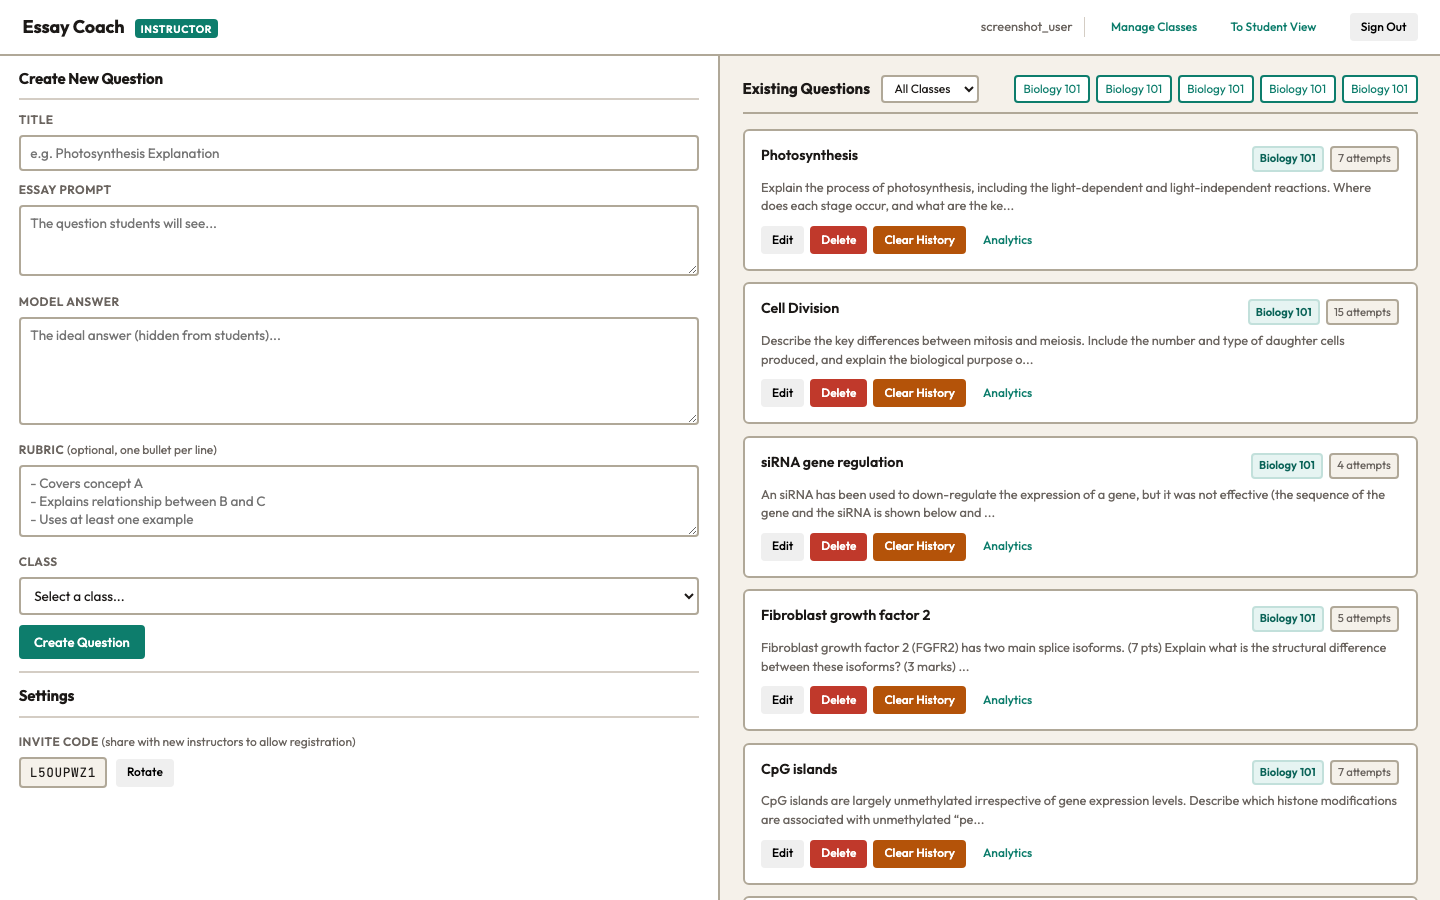
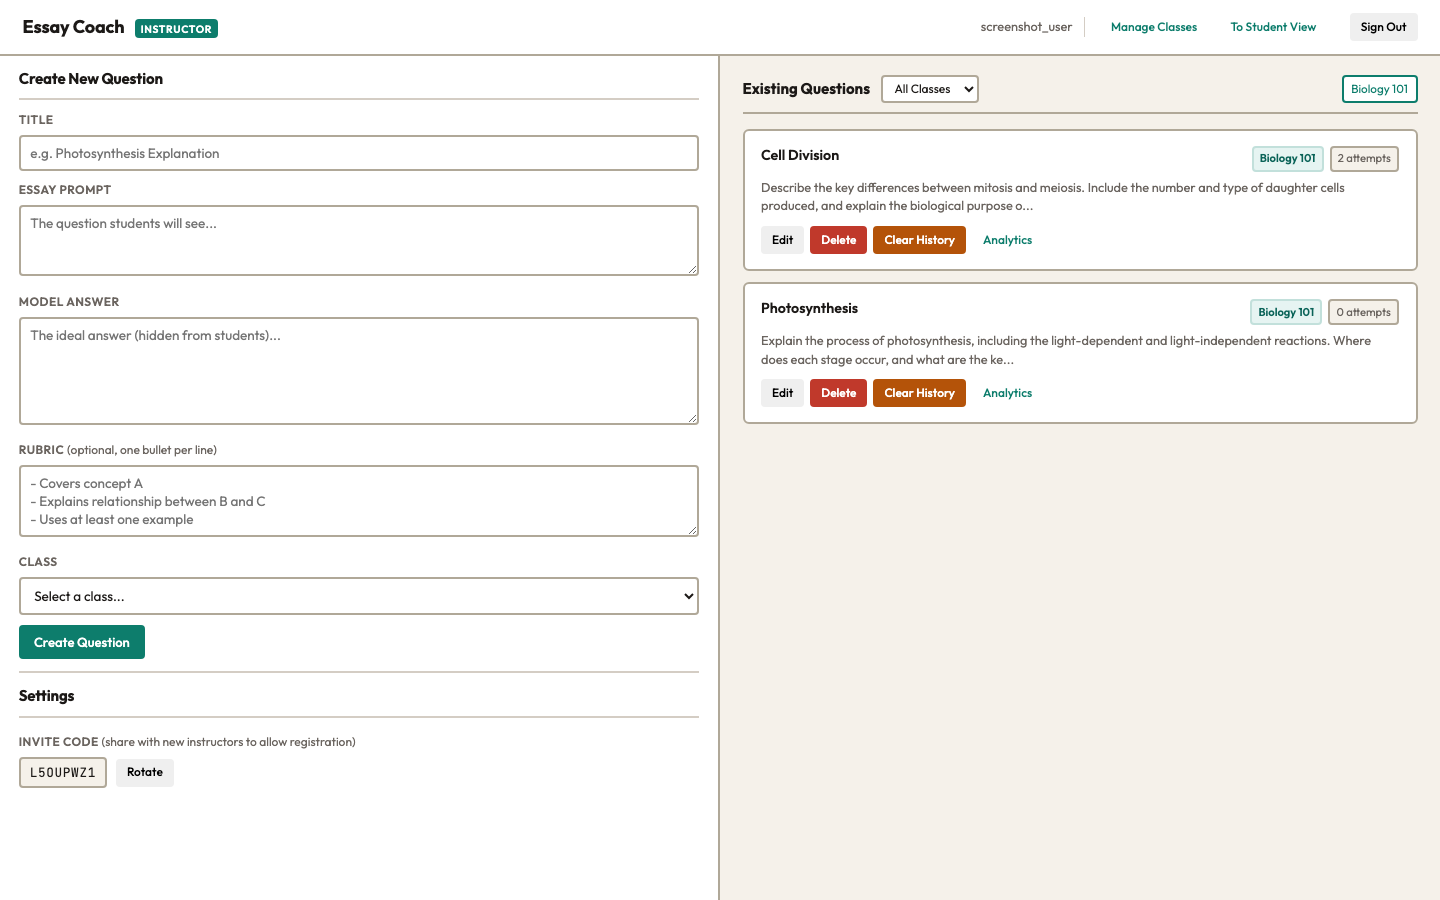
Fix duplicate classes in instructor-classes screenshot
Clean up all screenshot_user class memberships (not just created classes)
before each run, removing stale joined-class memberships from the old
hardcoded script. Also regenerate screenshots.

diff --git a/docs/capture_screenshots.py b/docs/capture_screenshots.py
@@ -101,6 +101,22 @@ def get_invite_code() -> str:
     return row[0]
 
 
+def cleanup_screenshot_classes() -> None:
+    """Delete all classes created by screenshot_user and remove any other memberships."""
+    db_path = os.getenv("DATABASE_PATH", "essay_coach.db")
+    db = sqlite3.connect(db_path)
+    db.execute("PRAGMA foreign_keys = ON")
+    row = db.execute("SELECT id FROM users WHERE username = ?", (INST_USER,)).fetchone()
+    if row:
+        uid = row[0]
+        deleted = db.execute("DELETE FROM classes WHERE created_by = ?", (uid,)).rowcount
+        db.execute("DELETE FROM class_members WHERE user_id = ?", (uid,))
+        db.commit()
+        if deleted:
+            print(f"  cleaned up {deleted} previous screenshot class(es)")
+    db.close()
+
+
 async def save(page, name: str):
     path = OUT / name
     await page.screenshot(path=str(path), full_page=False)
@@ -214,6 +230,8 @@ async def run():
 
         # ── SETUP: register/login instructor, create class + questions ────
         print("Setting up...")
+
+        cleanup_screenshot_classes()
 
         await page.request.post(f"{BASE}/api/auth/register",
             data=json.dumps({"username": INST_USER, "password": INST_PASS, "invite_code": invite}),
